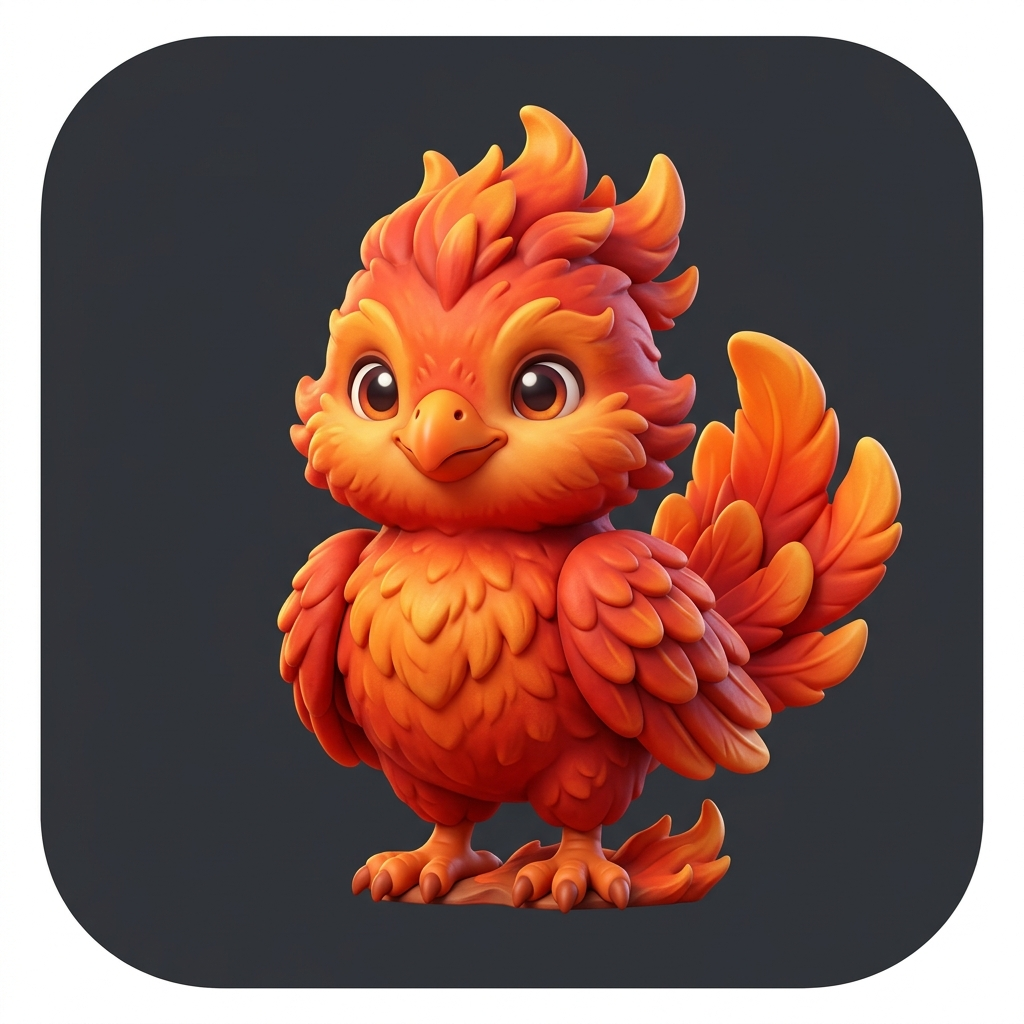
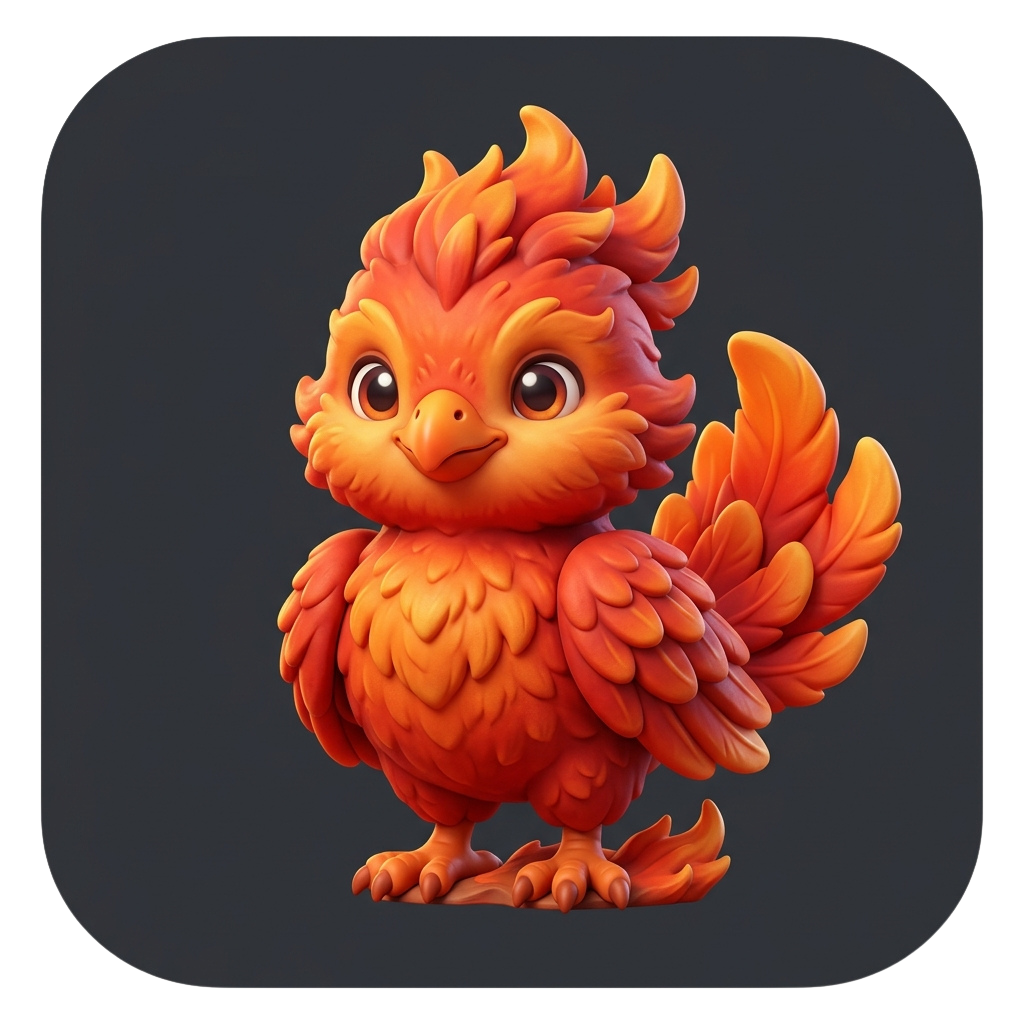
fix

diff --git a/src/engine/AudioEngine.ts b/src/engine/AudioEngine.ts
@@ -49,9 +49,9 @@ class AudioEngine {
   private constructor() {
     Howler.volume(this.masterVol);
 
-    this.standbyBgm = new Howl({ src: ['/sounds/bgm/Standby.mp3'], loop: true, volume: this.bgmVol, preload: true, html5: true });
-    this.playgameBgm = new Howl({ src: ['/sounds/bgm/Playgame.mp3'], loop: true, volume: this.bgmVol, preload: true, html5: true });
-    this.mapeditorBgm = new Howl({ src: ['/sounds/bgm/Mapeditor.mp3'], loop: true, volume: this.bgmVol, preload: true, html5: true });
+    this.standbyBgm = new Howl({ src: ['/sounds/bgm/Standby.mp3'], loop: true, volume: this.bgmVol, preload: true });
+    this.playgameBgm = new Howl({ src: ['/sounds/bgm/Playgame.mp3'], loop: true, volume: this.bgmVol, preload: true });
+    this.mapeditorBgm = new Howl({ src: ['/sounds/bgm/Mapeditor.mp3'], loop: true, volume: this.bgmVol, preload: true });
 
     // SFX 프리로딩
     const uniquePaths = Array.from(new Set(Object.values(sfxPathMap)));
@@ -68,13 +68,7 @@ class AudioEngine {
 
   // 브라우저 락 해제 보장
   unlockAudio() {
-    // 1. 동기적으로 즉시 play() 호출 (비동기 then 안으로 들어가면 HTML5 오디오 제스처 토큰이 날아감)
-    if (this.currentBgm && !this.currentBgm.playing()) {
-      this.currentBgm.volume(this.bgmVol);
-      this.currentBgm.play();
-    }
-    
-    // 2. Web Audio API 컨텍스트 리줌 (효과음 등을 위해 필요)
+    // Web Audio API 전역 오디오 컨텍스트 락 해제
     if (Howler.ctx && Howler.ctx.state === 'suspended') {
       Howler.ctx.resume().catch(() => {});
     }
@@ -119,17 +113,12 @@ class AudioEngine {
       (nextBgm as any)._bgmFadeTimeout = undefined;
     }
     
-    if (Howler.ctx && Howler.ctx.state === 'suspended') {
-      nextBgm.volume(this.bgmVol);
-      // 브라우저 락 상태일 때는 play()를 호출하지 않고 대기합니다.
-      // 이후 유저가 클릭하면 unlockAudio()에서 play()를 안전하게 호출합니다.
-    } else {
-      // ⚠️ html5: true 모드에서는 fade()가 즉시 중단되어 볼륨이 0에 머무는 버그가 자주 발생하므로, 직접 volume을 세팅합니다.
-      nextBgm.volume(this.bgmVol);
-      if (!nextBgm.playing()) {
-        nextBgm.play();
-      }
+    // Web Audio API를 사용하므로 매우 부드럽고 안정적인 페이드인 지원
+    if (!nextBgm.playing()) {
+      nextBgm.volume(0); // 0부터 부드럽게 페이드인
+      nextBgm.play();
     }
+    nextBgm.fade(nextBgm.volume(), this.bgmVol, fadeDuration);
   }
 
   stopAllBgm() {

diff --git a/src/app/shop/page.tsx b/src/app/shop/page.tsx
@@ -80,7 +80,7 @@ export default function ShopPage() {
       items = items.filter(isItemOwned);
     }
     
-    // 정렬: 보유 여부 (상점 모드일 때만) -> 희귀도 높은 순 -> 이름 순
+    // 정렬: 보유 여부 (상점 모드일 때만) -> 가격 싼 순 -> 이름 순
     items.sort((a, b) => {
       if (viewMode === 'shop') {
         if (a.isDefault !== b.isDefault) return a.isDefault ? 1 : -1; // 기본 아이템은 항상 맨 아래로
@@ -90,9 +90,7 @@ export default function ShopPage() {
         if (aOwned !== bOwned) return bOwned - aOwned; // 소유한게 먼저 (내림차순, 기본 아닌 것들 중)
       }
       
-      const rA = RARITY_ORDER[a.rarity] || 0;
-      const rB = RARITY_ORDER[b.rarity] || 0;
-      if (rA !== rB) return rB - rA; // 등급 높은게 먼저
+      if (a.price !== b.price) return a.price - b.price; // 가격 싼게 먼저
       
       return a.name.localeCompare(b.name);
     });
@@ -348,7 +346,7 @@ export default function ShopPage() {
                     <div className="flex items-center gap-4">
                       <div className="w-16 h-16 rounded-lg bg-black/50 border border-neutral-700 flex items-center justify-center overflow-hidden relative">
                         {item.image ? (
-                          <img src={item.image} alt={item.name} className="w-full h-full object-contain p-1" />
+                          <img src={item.image} alt={item.name} className="w-full h-full object-cover scale-[1.2]" />
                         ) : IconComp ? (
                           <IconComp className="w-8 h-8 text-neutral-300" />
                         ) : (

diff --git a/src/components/shop/ShopShowcase.tsx b/src/components/shop/ShopShowcase.tsx
@@ -126,13 +126,13 @@ export default function ShopShowcase({ selectedItem }: ShopShowcaseProps) {
         <div className={`w-full h-full rounded-3xl border-2 ${rarityStyle.border} ${rarityStyle.glow} bg-black/60 backdrop-blur-md flex items-center justify-center relative transition-colors duration-500 overflow-hidden`}>
           
           {/* 컨텐츠 렌더링 (Image) - 가장 안쪽 레이어 */}
-          <div style={{ transform: "translateZ(20px)" }} className={`w-full h-full flex items-center justify-center relative ${isFullScreenAsset ? 'p-0' : 'p-4'}`}>
+          <div className={`w-full h-full flex items-center justify-center absolute inset-0 z-0 ${isFullScreenAsset ? 'p-0' : 'p-6'}`}>
             {selectedItem?.image ? (
               <Image 
                 src={selectedItem.image} 
                 alt={selectedItem?.name || "아이템"} 
                 fill
-                className={`${isFullScreenAsset ? 'object-cover' : 'object-contain p-2 drop-shadow-2xl'}`}
+                className={`${isFullScreenAsset ? 'object-cover' : 'object-contain drop-shadow-2xl'}`}
                 sizes="(max-width: 768px) 256px, 320px"
                 priority
               />
@@ -152,7 +152,7 @@ export default function ShopShowcase({ selectedItem }: ShopShowcaseProps) {
           </div>
 
           {/* Hologram & Shine Layers - 유리 표면 (가장 바깥쪽 Z) */}
-          <div style={{ transform: "translateZ(50px)" }} className="absolute inset-0 rounded-3xl overflow-hidden pointer-events-none">
+          <div className="absolute inset-0 z-10 pointer-events-none">
             <div className="absolute inset-0 opacity-20 mix-blend-overlay bg-gradient-to-br from-white/40 via-transparent to-transparent" />
             <div className="absolute inset-0 bg-gradient-to-r from-transparent via-white/10 to-transparent -translate-x-full animate-[shimmer_3s_infinite]" />
           </div>